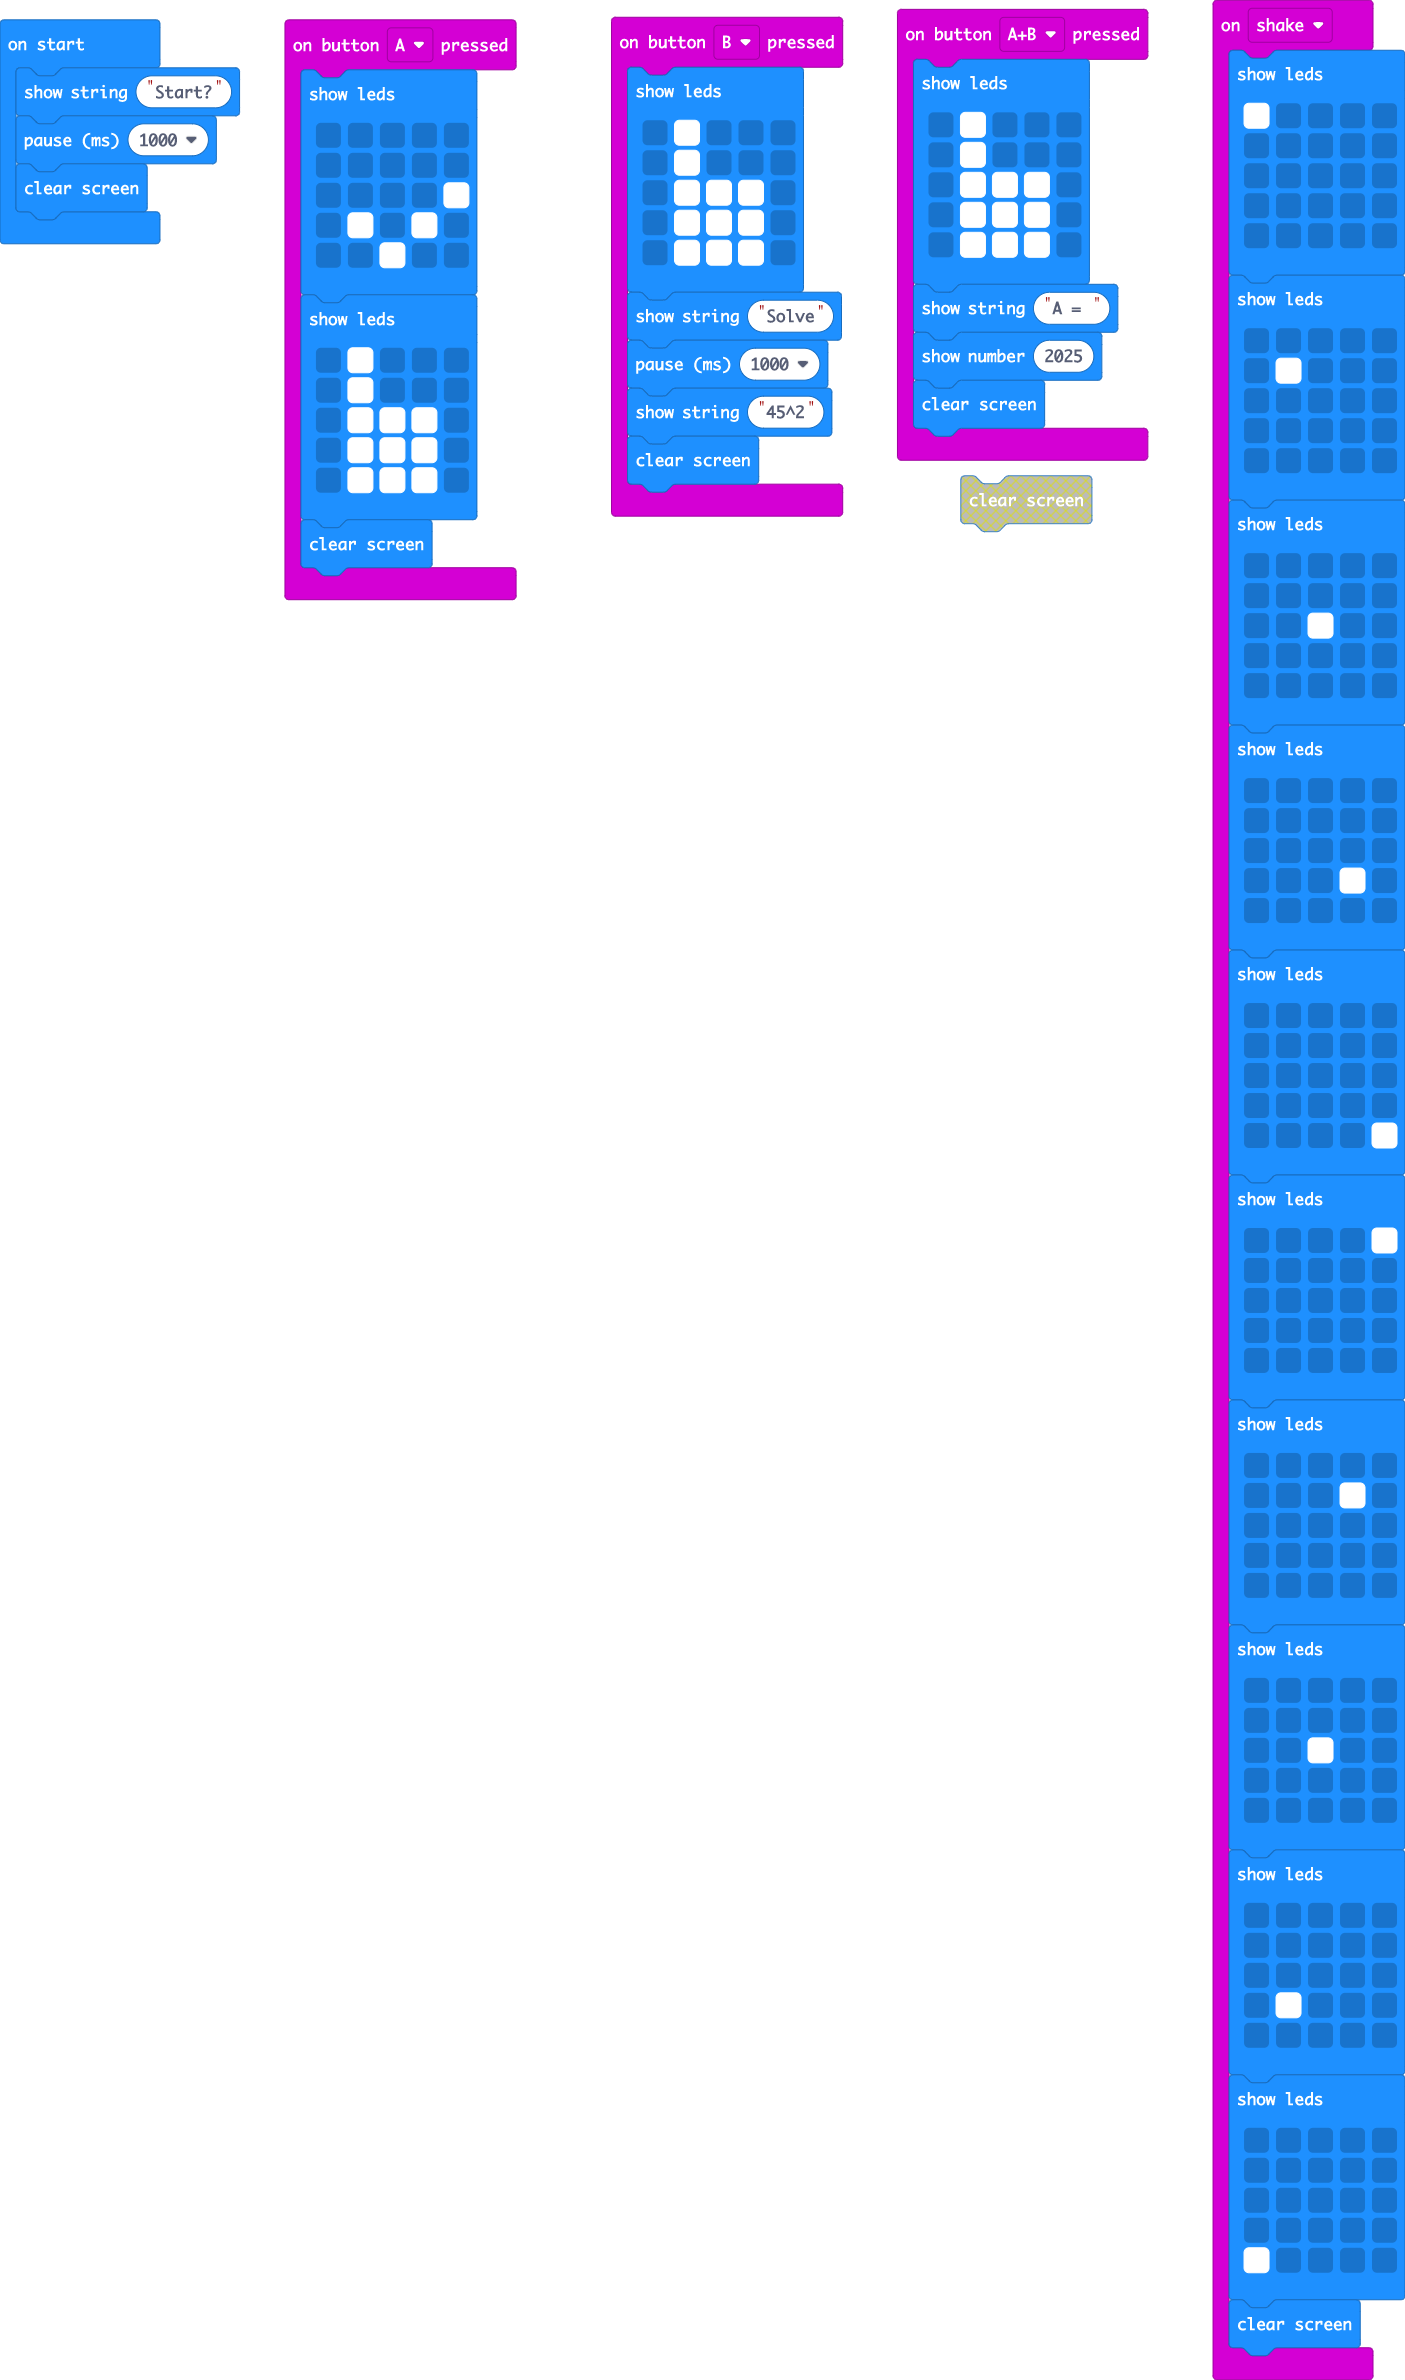
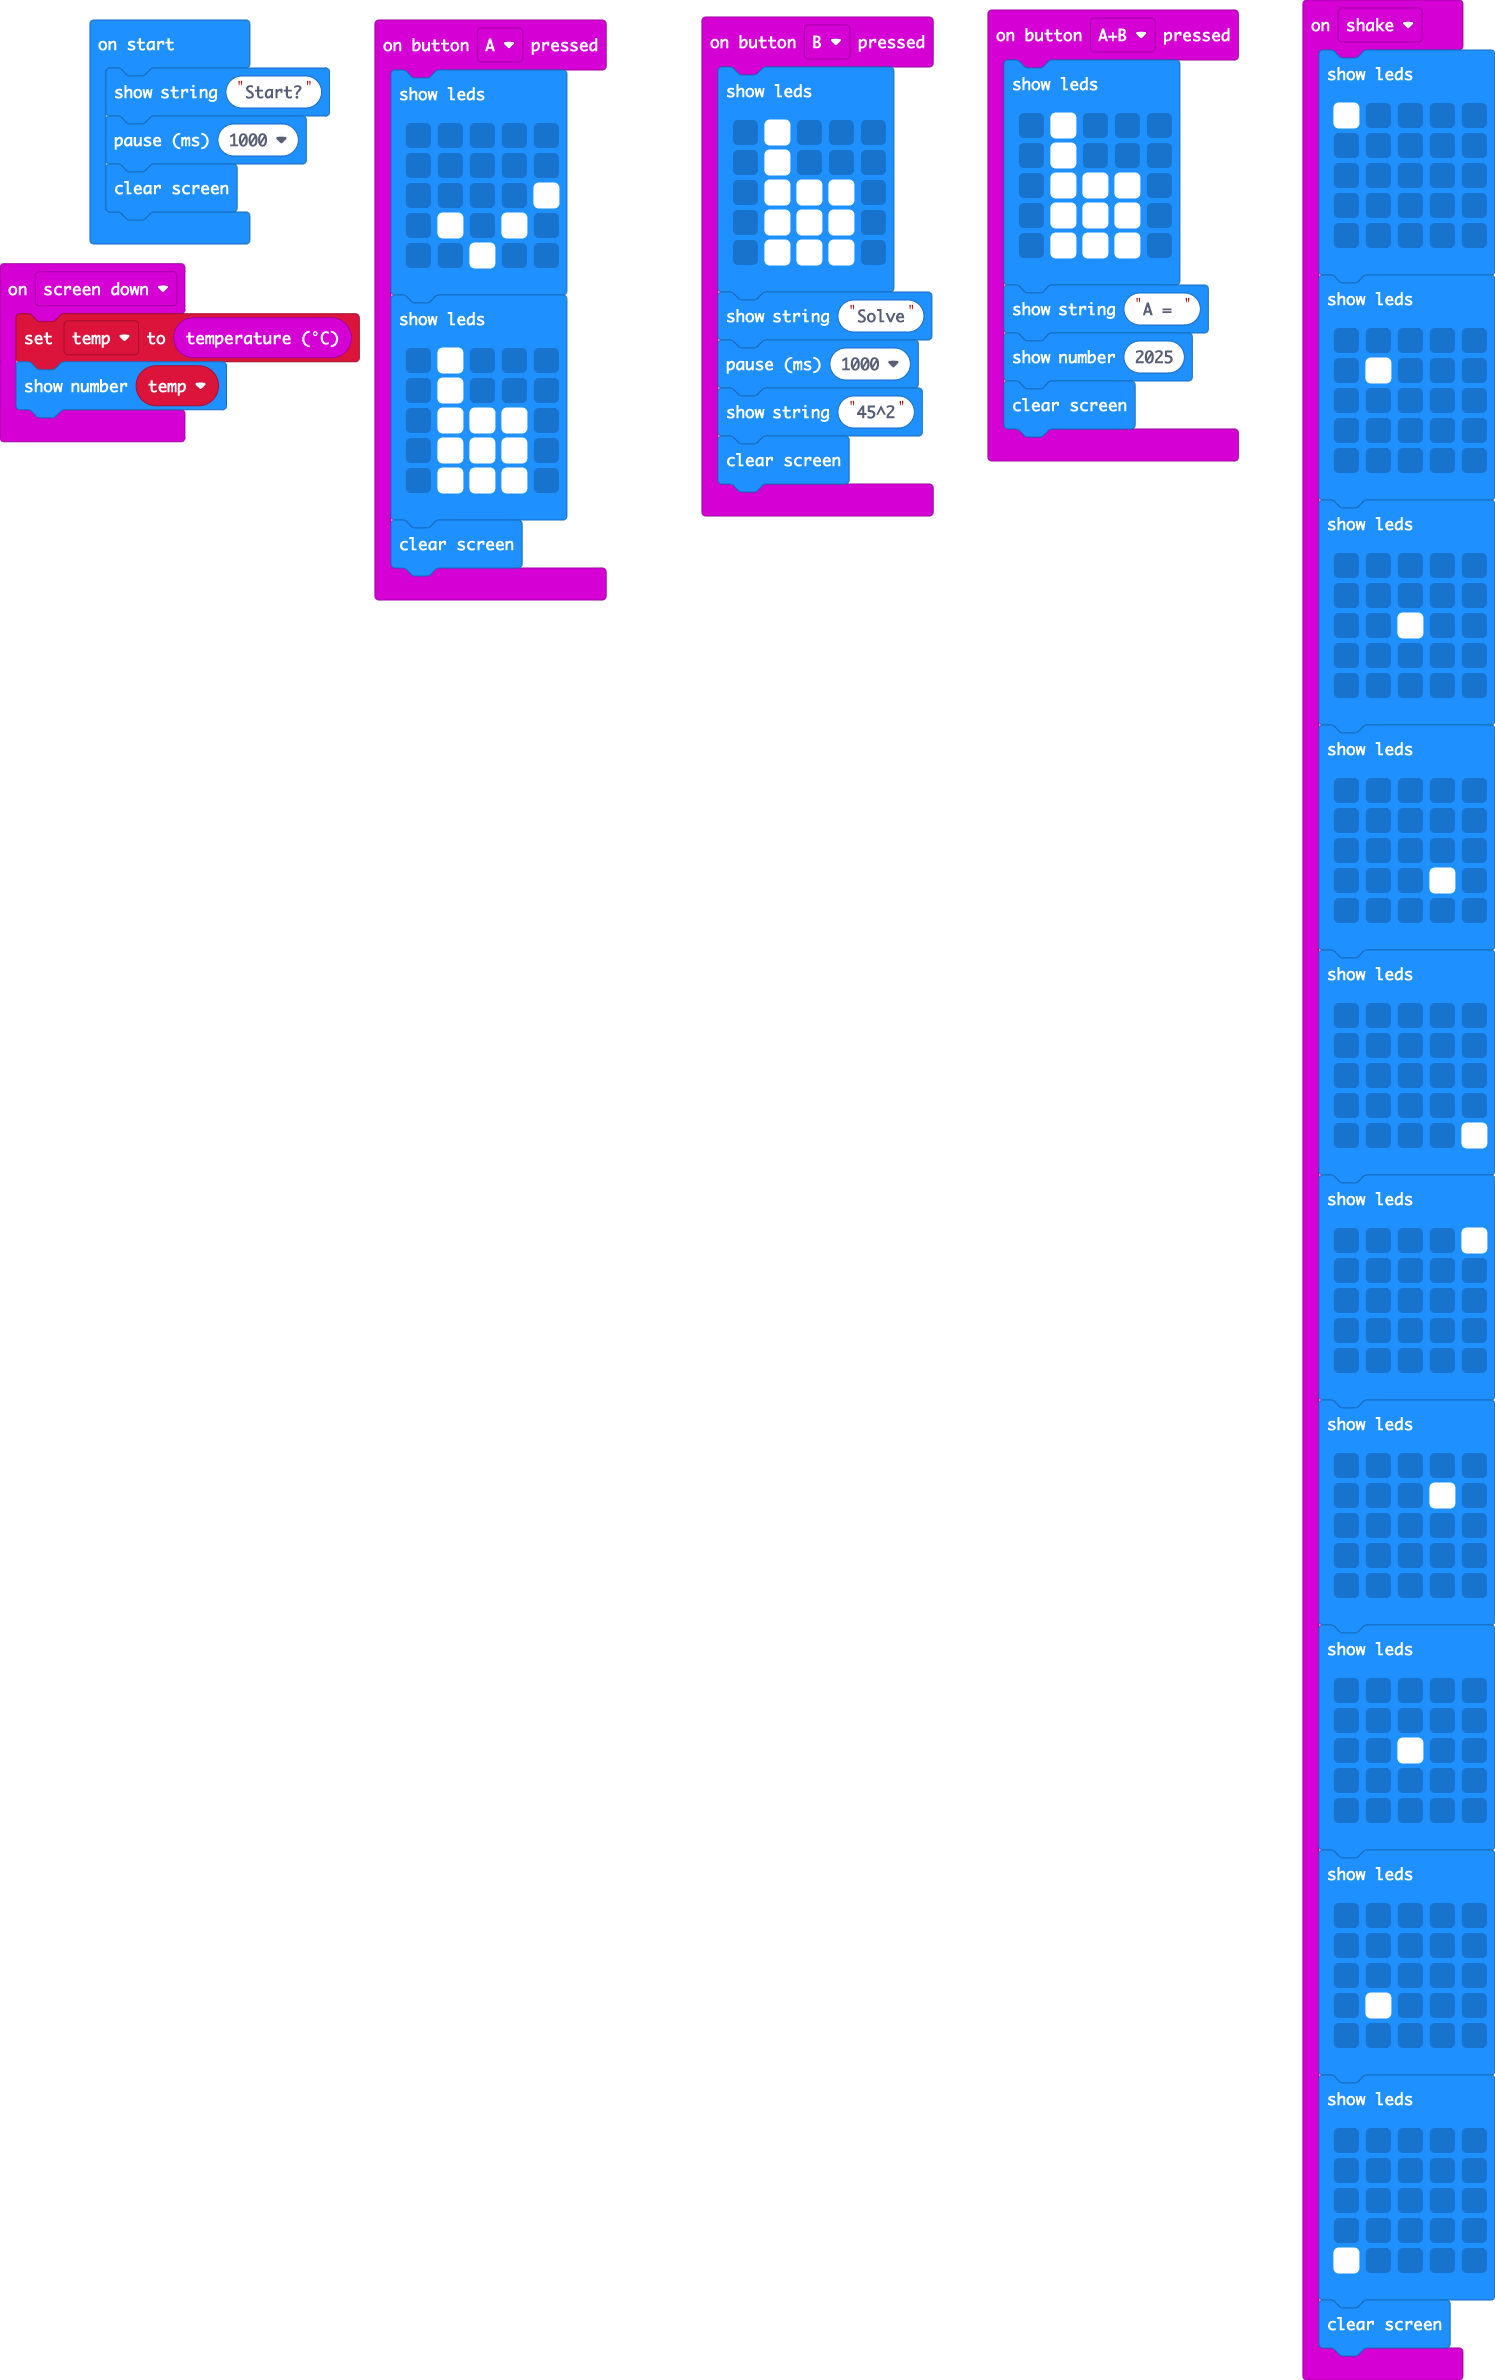
Update main.blocks, main.ts

Changed region(s): [[0.0, 0.0, 0.8263, 0.2798], [0.8569, 0.0, 0.9794, 1.0]]

diff --git a/main.ts b/main.ts
@@ -15,6 +15,10 @@ input.onButtonPressed(Button.A, function () {
         `)
     basic.clearScreen()
 })
+input.onGesture(Gesture.ScreenDown, function () {
+    temp = input.temperature()
+    basic.showNumber(temp)
+})
 input.onButtonPressed(Button.AB, function () {
     basic.showLeds(`
         . # . . .
@@ -113,6 +117,7 @@ input.onGesture(Gesture.Shake, function () {
         `)
     basic.clearScreen()
 })
+let temp = 0
 basic.showString("Start?")
 basic.pause(1000)
 basic.clearScreen()
